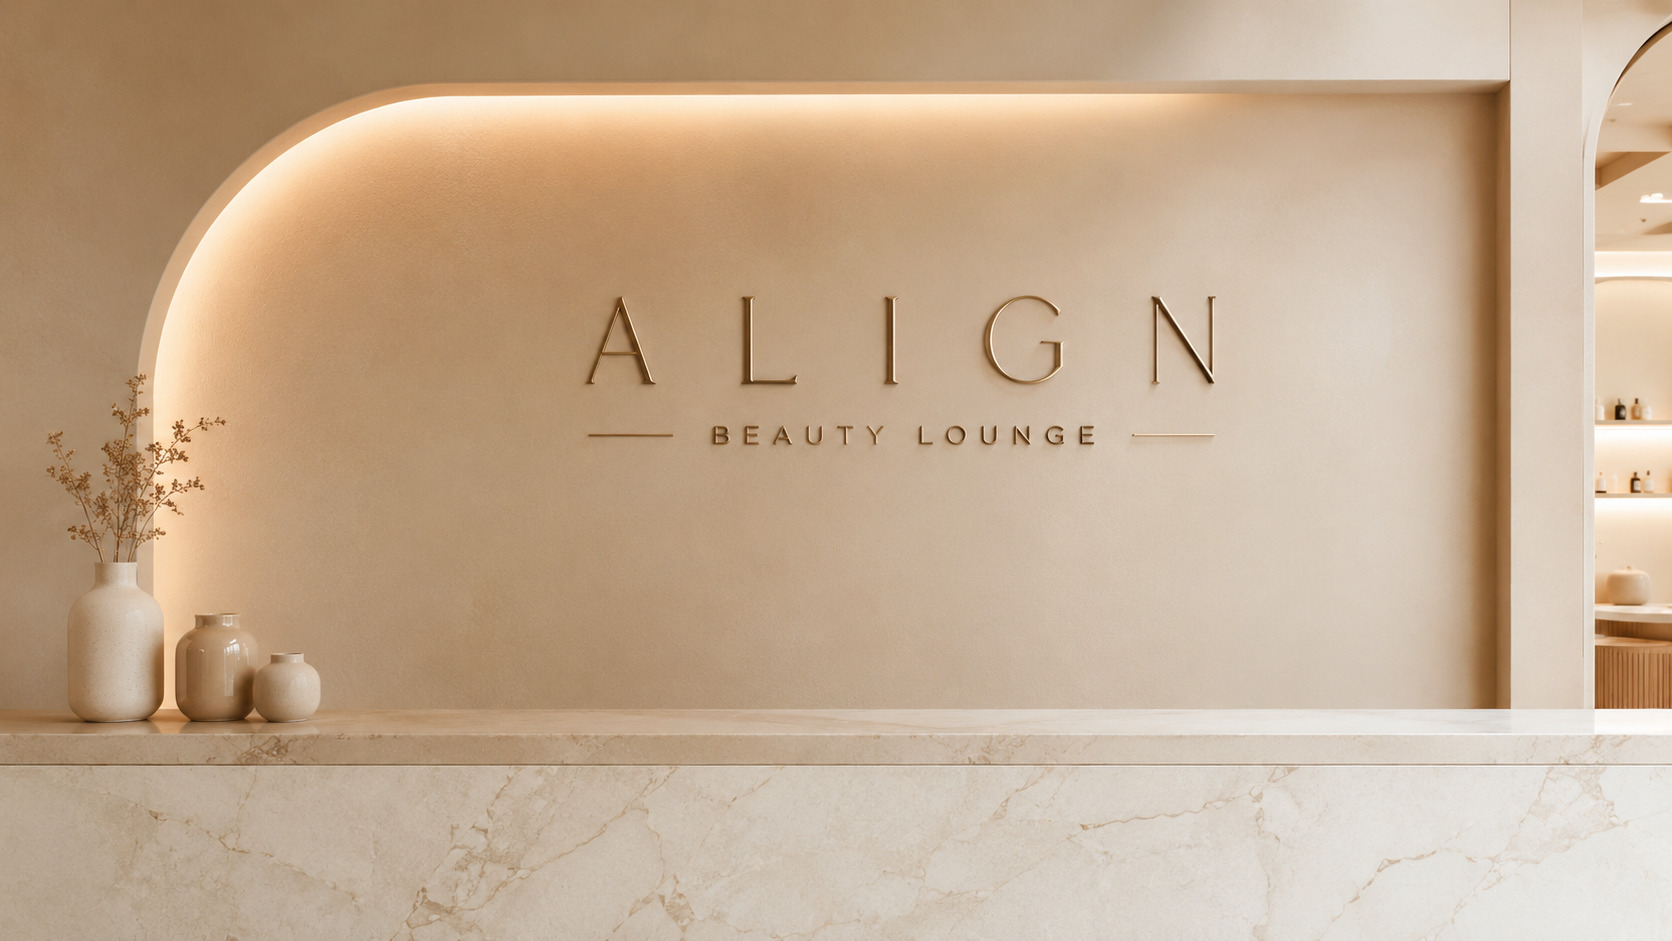
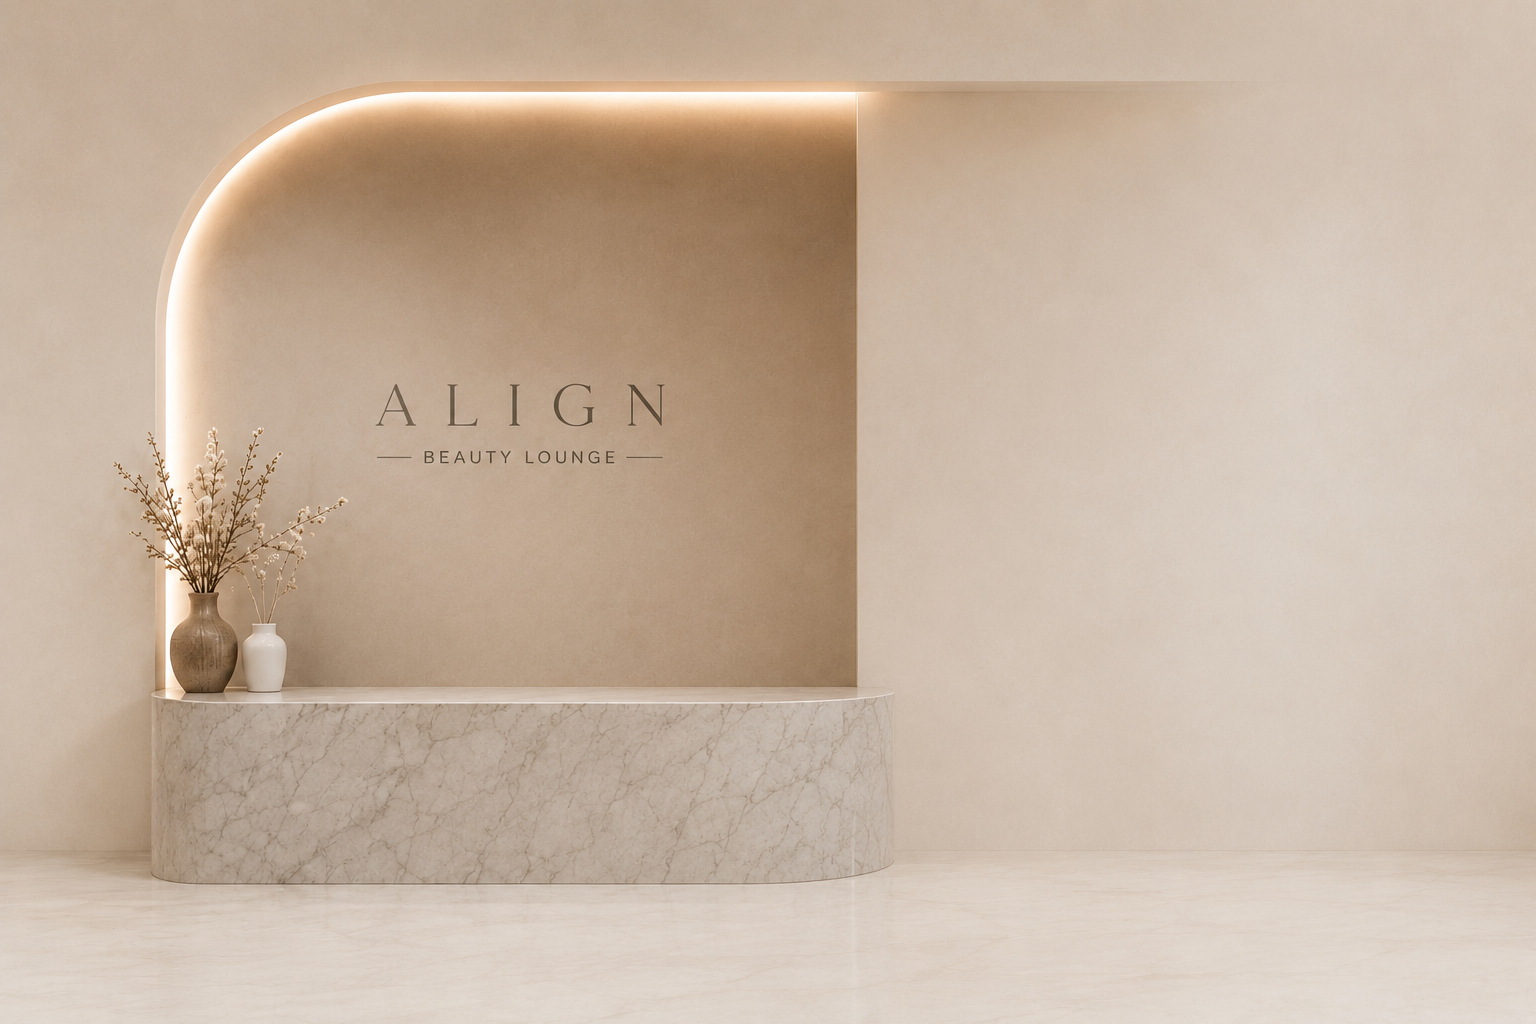
Rebuild the hero to match the moodboard composition
The hero read as a boxed photograph with small panels crushed inside it,
rather than the moodboard's single continuous field. Reworked it:

- The backdrop is anchored to the section, not the grid column, and its left
  and bottom edges blend into the cream. No more hard seam mid-page.
- The panels are much larger, stand taller than the backdrop and run to the
  right edge of the screen, as they do in the reference.
- Uses the newly supplied reception shot as the backdrop. Its composition —
  sign left, open wall right — is what the layout needs: the ALIGN sign now
  sits in the gap between the copy and the panels instead of behind them.
- The new lounge shot replaces the old one in More Than Beauty and the CTA.

Fixes the cropping and the softness, which had the same cause. The panels
were a ~1:4 box, so object-cover had to magnify each photo ~2.4x to fill them,
turning a face into half an eye and a hand into a blur. The photograph now
occupies the top ~68% of a panel with the copy on solid espresso below and a
gradient hiding the seam, so each source is used near its natural scale.
Panel images went from ~0.6x to 1.45x density at 2x DPR.

Also gives each image a separate object-position for the desktop panels and
the mobile cards, since one crops to a portrait and the other to a square,
and trims the display scale that was crowding the visual.

Verified at all fifteen widths: no overflow, all controls >= 44px, no console
[…]

diff --git a/components/Hero.tsx b/components/Hero.tsx
@@ -19,9 +19,40 @@ export function Hero() {
   const backdropY = useTransform(scrollYProgress, [0, 1], ["0%", reduced ? "0%" : "9%"]);
 
   return (
-    <section id="top" ref={ref} className="relative bg-cream pt-24 lg:pt-28">
-      <div className="shell">
-        <div className="grid items-center gap-10 lg:grid-cols-[minmax(19rem,38%)_1fr] lg:gap-12 xl:gap-16">
+    <section id="top" ref={ref} className="relative overflow-hidden bg-cream pt-24 lg:pt-28">
+      <div className="relative">
+        {/* Anchored to the section rather than the grid column, so the
+            photograph reads as one continuous field running off the right of
+            the screen instead of a boxed-in image with a hard left seam. */}
+        <div className="absolute inset-y-0 right-0 hidden w-[93%] overflow-hidden lg:block">
+          <motion.div style={{ y: backdropY }} className="absolute -inset-y-[6%] inset-x-0">
+            <Image
+              src="/images/hero-backdrop.jpg"
+              alt="The Align Beauty Lounge reception — a lit arched alcove above a marble counter"
+              fill
+              priority
+              fetchPriority="high"
+              quality={92}
+              sizes="93vw"
+              className="object-cover"
+              style={{ objectPosition: "50% 28%" }}
+            />
+          </motion.div>
+
+          {/* Blend the photograph's left and bottom edges into the page so it
+              reads as a field, not a pasted-in rectangle. */}
+          <span
+            aria-hidden="true"
+            className="absolute inset-y-0 left-0 w-[32%] bg-gradient-to-r from-cream via-cream/88 to-transparent"
+          />
+          <span
+            aria-hidden="true"
+            className="absolute inset-x-0 bottom-0 h-[12%] bg-gradient-to-t from-cream to-transparent"
+          />
+        </div>
+
+        <div className="shell relative">
+          <div className="grid items-center gap-10 lg:grid-cols-[minmax(19rem,40%)_1fr] lg:gap-6 xl:gap-10">
           {/* ---------------- Copy column ---------------- */}
           <div className="relative z-10 lg:py-20 xl:py-24">
             <Reveal immediate delay={0.15} y={14}>
@@ -69,35 +100,26 @@ export function Hero() {
             </Reveal>
           </div>
 
-          {/* ---------------- Visual column (lg and up) ---------------- */}
-          <div className="relative hidden lg:block">
-            <div className="relative aspect-[16/11] w-full overflow-hidden xl:aspect-[16/10]">
-              <motion.div style={{ y: backdropY }} className="absolute -inset-y-[6%] inset-x-0">
-                <Image
-                  src="/images/hero-backdrop.jpg"
-                  alt="The Align Beauty Lounge reception — a lit arched alcove above a marble counter"
-                  fill
-                  priority
-                  fetchPriority="high"
-                  quality={92}
-                  sizes="(min-width: 1536px) 60vw, 62vw"
-                  className="object-cover"
-                  style={{ objectPosition: "40% 50%" }}
-                />
-              </motion.div>
-
-              {/* Diagonal service panels, overlaying the right of the backdrop. */}
-              <div className="absolute inset-y-[7%] right-0 flex w-[78%] gap-[1.4%]">
+          {/* ---------------- Diagonal panels (lg and up) ----------------
+              They stand taller than the backdrop and run off the right edge of
+              the screen, exactly as they do in the moodboard. */}
+          <div
+            className="relative hidden lg:block"
+            style={{ marginRight: "calc(-1 * var(--spacing-gutter))" }}
+          >
+            <div className="relative aspect-[16/13] w-full xl:aspect-[16/12]">
+              <div className="absolute -top-[5%] bottom-[-1%] left-[6%] right-0 flex gap-[1.3%]">
                 {services.map((s, i) => (
                   <HeroServicePanel
                     key={s.index}
                     service={s}
                     index={i}
-                    sizes="(min-width: 1536px) 17vw, 16vw"
+                    sizes="(min-width: 1920px) 20vw, (min-width: 1280px) 21vw, 22vw"
                   />
                 ))}
               </div>
             </div>
+          </div>
           </div>
         </div>
       </div>
@@ -108,6 +130,17 @@ export function Hero() {
           <ServiceCardMobile key={s.index} service={s} index={i} />
         ))}
       </div>
+
+      {/* Oversized wordmark set into the floor, as in the moodboard. Purely
+          decorative — the real one is in the header. */}
+      <span
+        aria-hidden="true"
+        className="pointer-events-none absolute bottom-[5%] left-0 hidden select-none
+          u-wordmark whitespace-nowrap text-[10vw] leading-none text-taupe/[0.11] lg:block"
+        style={{ paddingLeft: "var(--spacing-gutter)" }}
+      >
+        Align
+      </span>
 
       {/* ---------------- Service word list ---------------- */}
       <Reveal y={14} className="mt-12 border-y border-taupe/30 bg-champagne/40 lg:mt-16">

diff --git a/components/HeroServicePanel.tsx b/components/HeroServicePanel.tsx
@@ -9,10 +9,17 @@ import { Arrow } from "./ui/Arrow";
 /*
  * Desktop panel. The parallelogram is a clip-path so the <img> inside is never
  * skewed — the shape leans, the photograph stays true.
- *   --lean is the horizontal offset of the top edge, as a % of panel width.
+ *
+ * The photograph occupies only the TOP of the panel and the copy sits on solid
+ * espresso below it. That is what the moodboard does, and it is also what keeps
+ * the images sharp: a full-height photo in a 1:4 panel would have to be scaled
+ * ~2.4x to cover, magnifying a narrow slice of the source into a blurry crop.
+ * Constraining it to a ~1.7:1 box means each source is used at close to its
+ * natural scale, and the gradient hides the seam.
  */
-const LEAN = 16;
+const LEAN = 15;
 const clip = `polygon(${LEAN}% 0%, 100% 0%, ${100 - LEAN}% 100%, 0% 100%)`;
+const PHOTO_HEIGHT = "68%";
 
 export function HeroServicePanel({
   service,
@@ -42,30 +49,31 @@ export function HeroServicePanel({
         className="group relative block h-full w-full overflow-hidden bg-ink"
         style={{ clipPath: clip, WebkitClipPath: clip }}
       >
-        <Image
-          src={service.image}
-          alt={service.alt}
-          fill
-          sizes={sizes}
-          quality={88}
-          className="object-cover transition-transform duration-[1200ms] ease-[var(--ease-align)]
-            group-hover:scale-[1.045] motion-reduce:group-hover:scale-100"
-          style={{ objectPosition: service.position }}
-        />
+        <span className="absolute inset-x-0 top-0 block" style={{ height: PHOTO_HEIGHT }}>
+          <Image
+            src={service.image}
+            alt={service.alt}
+            fill
+            sizes={sizes}
+            quality={90}
+            className="object-cover transition-transform duration-[1200ms] ease-[var(--ease-align)]
+              group-hover:scale-[1.045] motion-reduce:group-hover:scale-100"
+            style={{ objectPosition: service.position }}
+          />
+          {/* Fades the photo into the espresso below it, so the split is invisible. */}
+          <span
+            aria-hidden="true"
+            className="absolute inset-x-0 bottom-0 h-1/2 bg-gradient-to-t from-ink via-ink/75 to-transparent"
+          />
+        </span>
 
-        {/* Legibility scrim. Weighted low so the image reads at the top. */}
-        <span
-          aria-hidden="true"
-          className="absolute inset-0 bg-gradient-to-t from-ink via-ink/72 via-38% to-transparent to-72%"
-        />
-
-        {/* The panel content sits inside the lean, padded off the slanted edge. */}
+        {/* Copy sits inside the lean, clear of the slanted edges. */}
         <span className="absolute inset-x-0 bottom-0 flex flex-col px-[15%] pb-[9%] text-cream">
-          <span className="u-display text-[clamp(1.5rem,2.1vw,2.6rem)] leading-none text-cream/95">
+          <span className="u-display text-[clamp(1.6rem,2.3vw,3rem)] leading-none text-cream/95">
             {service.index}
           </span>
 
-          <span className="u-display mt-3 text-[clamp(1rem,1.3vw,1.6rem)] uppercase leading-[1.05] tracking-[0.06em]">
+          <span className="u-display mt-2.5 text-[clamp(1.05rem,1.45vw,1.85rem)] uppercase leading-[1.05] tracking-[0.05em]">
             {service.titleLines.map((l) => (
               <span key={l} className="block">
                 {l}
@@ -73,9 +81,9 @@ export function HeroServicePanel({
             ))}
           </span>
 
-          <span className="u-rule mt-4 w-8 origin-left transition-[width] duration-700 ease-[var(--ease-align)] group-hover:w-16" />
+          <span className="u-rule mt-3.5 w-8 origin-left transition-[width] duration-700 ease-[var(--ease-align)] group-hover:w-16" />
 
-          <span className="u-label mt-3.5 text-[0.6875rem] leading-[1.5] text-cream/80">
+          <span className="u-label mt-3.5 text-[0.6875rem] leading-[1.55] text-cream/80">
             {service.statement.map((l) => (
               <span key={l} className="block">
                 {l}
@@ -83,7 +91,7 @@ export function HeroServicePanel({
             ))}
           </span>
 
-          <Arrow className="mt-5 w-8 text-cream/80 transition-transform duration-500 ease-[var(--ease-align)] group-hover:translate-x-2" />
+          <Arrow className="mt-5 w-9 text-cream/80 transition-transform duration-500 ease-[var(--ease-align)] group-hover:translate-x-2" />
         </span>
       </Link>
     </motion.div>
@@ -117,10 +125,10 @@ export function ServiceCardMobile({ service, index }: { service: Service; index:
             src={service.image}
             alt={service.alt}
             fill
-            sizes="(max-width: 640px) 40vw, 200px"
+            sizes="(max-width: 640px) 45vw, 240px"
             quality={80}
             className="object-cover"
-            style={{ objectPosition: service.position }}
+            style={{ objectPosition: service.positionMobile ?? service.position }}
           />
         </div>
 

diff --git a/lib/site.ts b/lib/site.ts
@@ -44,8 +44,11 @@ export type Service = {
   statement: string[];
   image: string;
   alt: string;
-  /* object-position tuned per image so no face or focal point gets cropped. */
+  /* object-position tuned per image so no face or focal point gets cropped.
+     The desktop panels crop to a portrait box, the mobile cards to a near
+     square, so the two need different framing. */
   position: string;
+  positionMobile?: string;
   href: string;
 };
 
@@ -57,7 +60,8 @@ export const services: Service[] = [
     statement: ["Details that", "define you."],
     image: "/images/nails.jpg",
     alt: "Close-up of a hand with a soft natural almond-shaped manicure resting on marble",
-    position: "58% 45%",
+    position: "45% 42%",
+    positionMobile: "52% 46%",
     href: "#services",
   },
   {
@@ -67,7 +71,8 @@ export const services: Service[] = [
     statement: ["Enhance your", "natural beauty."],
     image: "/images/beauty.jpg",
     alt: "Portrait of a woman with softly defined brows and a warm glowing makeup finish",
-    position: "50% 32%",
+    position: "50% 20%",
+    positionMobile: "50% 24%",
     href: "#services",
   },
   {
@@ -77,7 +82,8 @@ export const services: Service[] = [
     statement: ["Learn. Celebrate.", "Elevate."],
     image: "/images/academy.jpg",
     alt: "The Align Beauty Lounge treatment floor, lit shelving and brass manicure stations",
-    position: "62% 50%",
+    position: "58% 44%",
+    positionMobile: "56% 48%",
     href: "#academy",
   },
 ];

diff --git a/app/globals.css b/app/globals.css
@@ -34,7 +34,7 @@
     --step-lead:    clamp(1rem, 0.93rem + 0.4vw, 1.1875rem);
     --step-h3:      clamp(1.5rem, 1.2rem + 1.4vw, 2.25rem);
     --step-h2:      clamp(2.125rem, 1.5rem + 3.1vw, 4.5rem);
-    --step-hero:    clamp(2.5rem, 5.4vw, 6.5rem);
+    --step-hero:    clamp(2.5rem, 4.6vw, 5.75rem);
 
     /* Angle of the ALIGN diagonal motif — used by panels, cards and rules. */
     --align-skew: 11deg;
